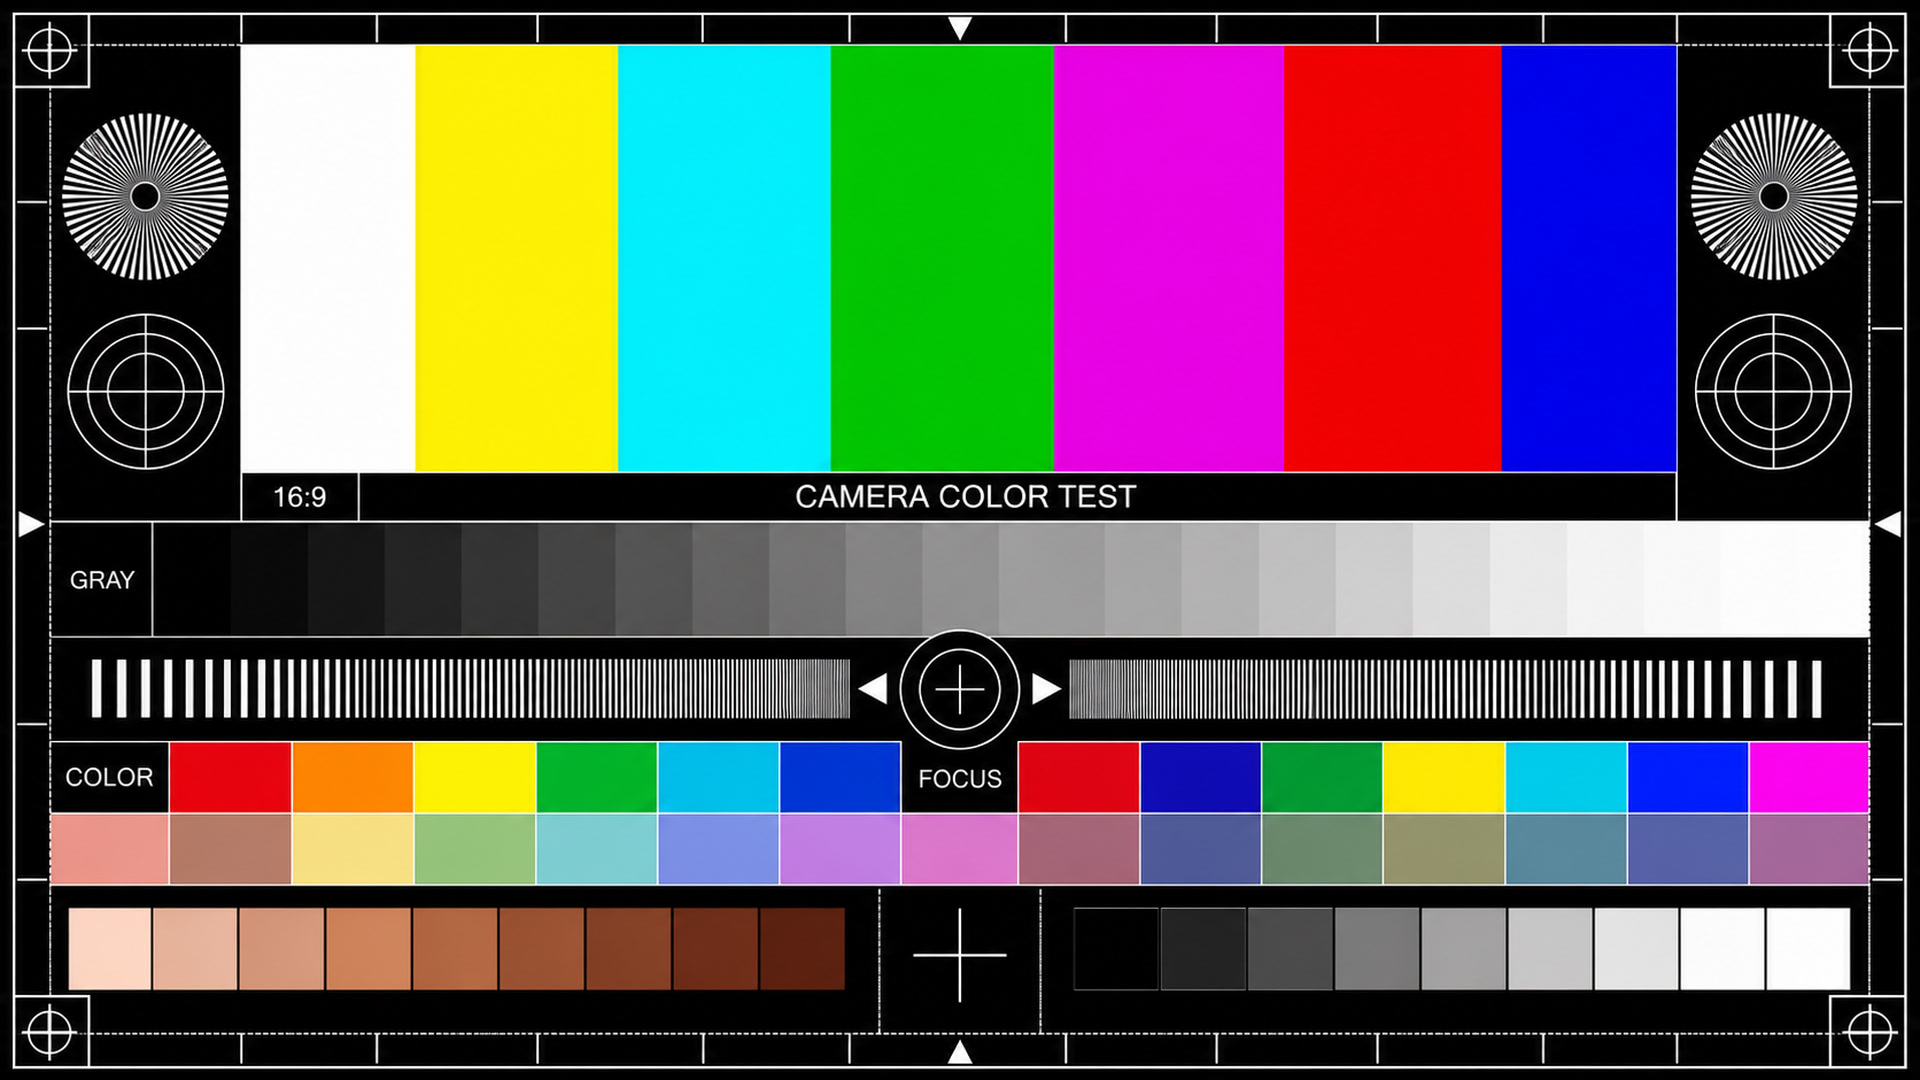
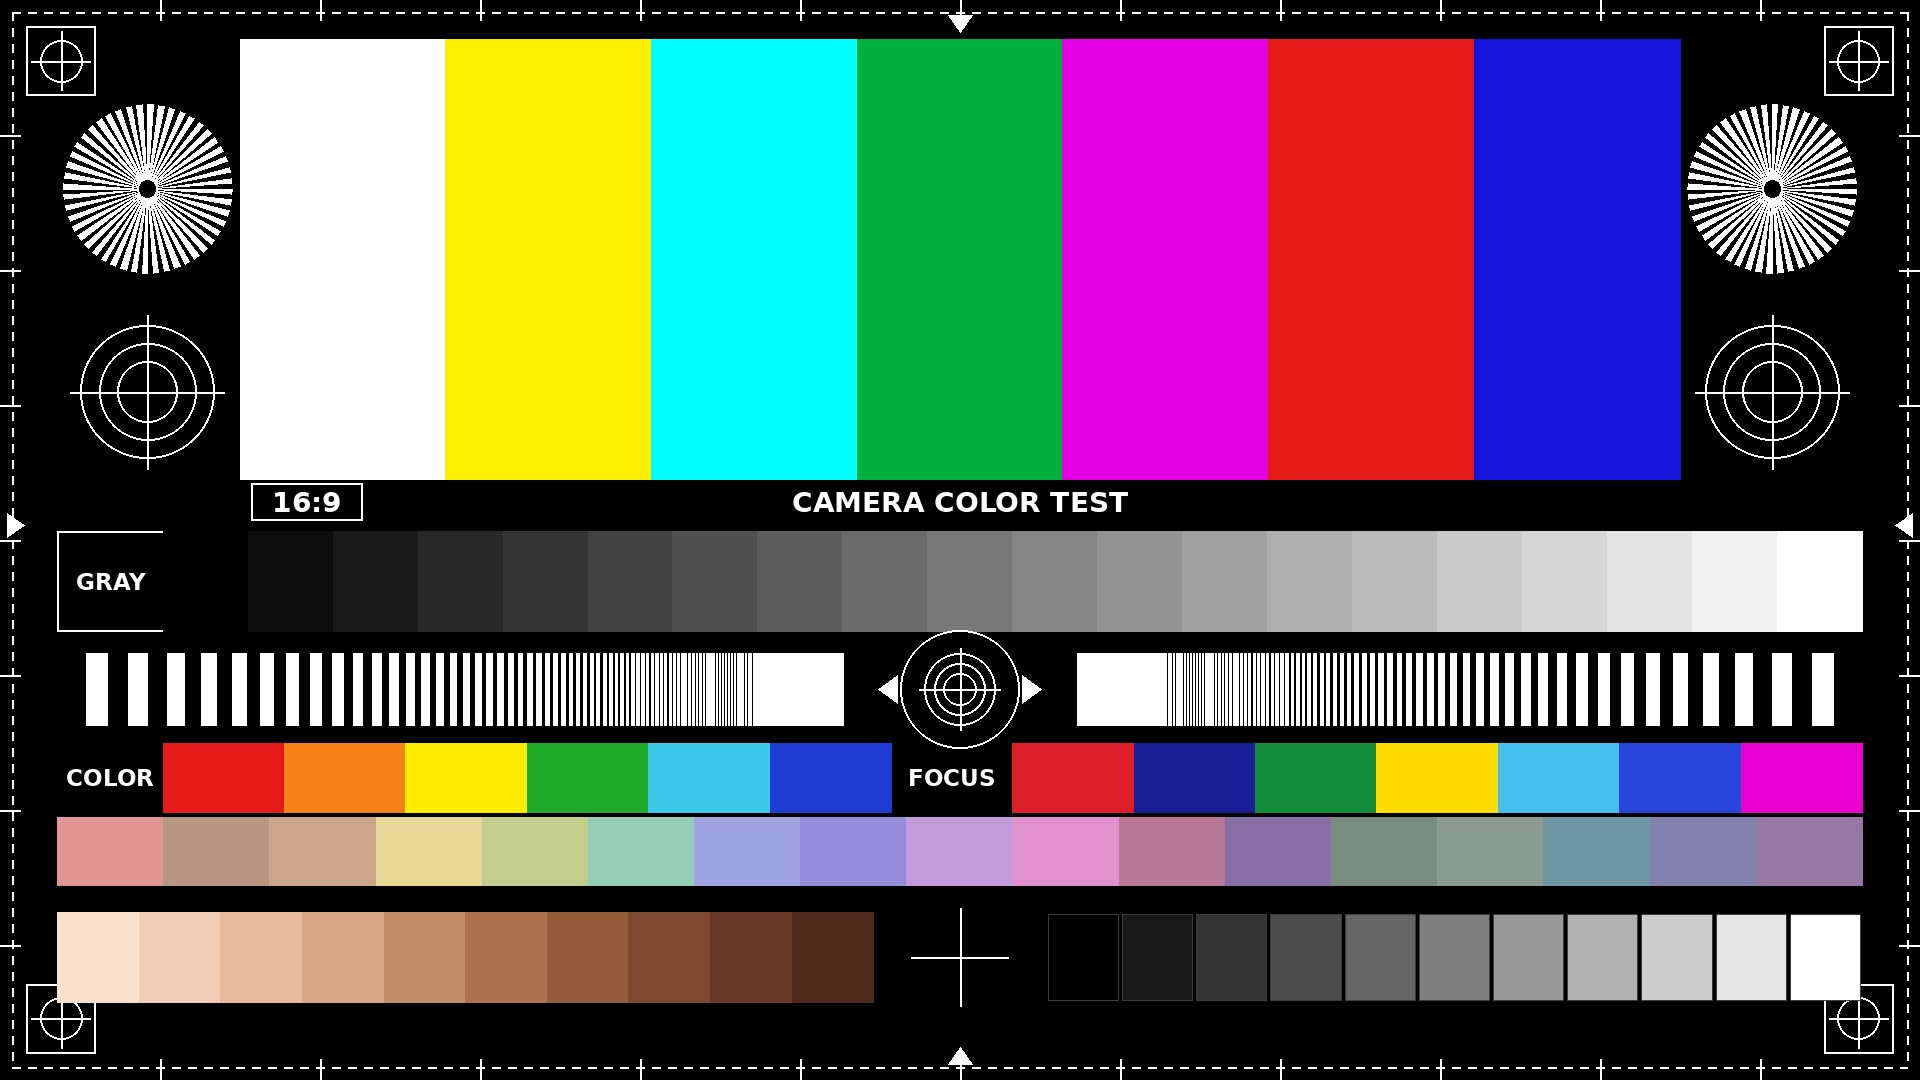
Regeneratee assets and use simple mires for test (small size)

diff --git a/src/behaviors/cameraAvStreamManagementServer.ts b/src/behaviors/cameraAvStreamManagementServer.ts
@@ -42,9 +42,9 @@ export interface CameraColorTestJpeg {
 const DEFAULT_CAMERA_COLOR_TEST_RESOLUTION = '640x480';
 
 const cameraColorTestJpegs: Record<string, CameraColorTestJpeg> = {
-  '640x480': { data: readFileSync(new URL('../../assets/camera-color-test-640-480.jpeg', import.meta.url)), resolution: { width: 640, height: 480 } },
-  '1280x720': { data: readFileSync(new URL('../../assets/camera-color-test-1280-720.jpeg', import.meta.url)), resolution: { width: 1280, height: 720 } },
-  '1920x1080': { data: readFileSync(new URL('../../assets/camera-color-test-1920-1080.jpeg', import.meta.url)), resolution: { width: 1920, height: 1080 } },
+  '640x480': { data: readFileSync(new URL('../../assets/camera-color-640-480.jpeg', import.meta.url)), resolution: { width: 640, height: 480 } },
+  '1280x720': { data: readFileSync(new URL('../../assets/camera-color-1280-720.jpeg', import.meta.url)), resolution: { width: 1280, height: 720 } },
+  '1920x1080': { data: readFileSync(new URL('../../assets/camera-color-1920-1080.jpeg', import.meta.url)), resolution: { width: 1920, height: 1080 } },
 };
 
 /**

diff --git a/CHANGELOG.md b/CHANGELOG.md
@@ -46,7 +46,7 @@ If you like this project and find it useful, please consider giving it a star on
 
 - [webrtc]: `ProvideOfferResponse`/`SolicitOfferResponse` now echo back the deprecated `videoStreamId`/`audioStreamId` fields when the request used them, as required by the Matter specification's conformance rules. Revision 1 clients (e.g. Home Assistant) send these fields as `null` to request automatic stream selection, and rely on the echoed value to learn which stream was selected; without it, they could not determine that a stream had in fact been negotiated.
 - [camera]: Fix `Camera` to provide default `snapshotCapabilities` and `allocatedSnapshotStreams` values for the CameraAvStreamManagement Snapshot feature, which was enabled but left the `SnapshotCapabilities` attribute as an empty list.
-- [snapshot]: `CaptureSnapshot` calibration cards were 480×270 and 960×540, which don't match any standard camera resolution. Regenerated the two cards as basic SMPTE color-bars test patterns (mires) at 640×480 and 1280×720, matching the resolutions the webcam capture path actually negotiates alongside the existing 1920×1080 card. `Camera` and `SnapshotCamera` now default `snapshotCapabilities` to advertise all three resolutions, since `CaptureSnapshot` can genuinely serve a matching calibration card for each.
+- [snapshot]: `CaptureSnapshot` calibration cards were 480×270 and 960×540, which don't match any standard camera resolution. Regenerated the two cards as basic SMPTE color-bars test patterns (mires) at 640×480 and 1280×720 1920-1080, matching the resolutions the webcam capture path actually negotiates. `Camera` and `SnapshotCamera` now default `snapshotCapabilities` to advertise all three resolutions, since `CaptureSnapshot` can genuinely serve a matching calibration card for each.
 
 <a href="https://www.buymeacoffee.com/luligugithub"><img src="https://matterbridge.io/assets/bmc-button.svg" alt="Buy me a coffee" width="80"></a>
 